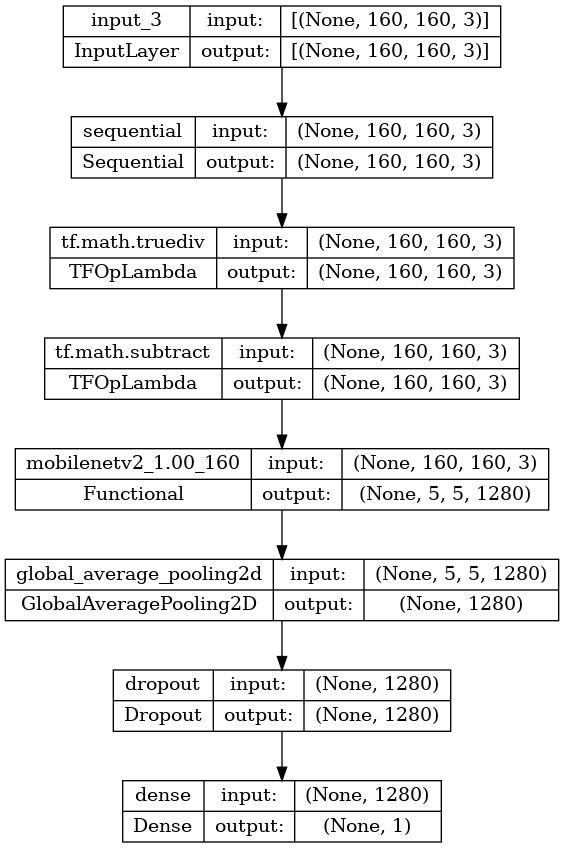
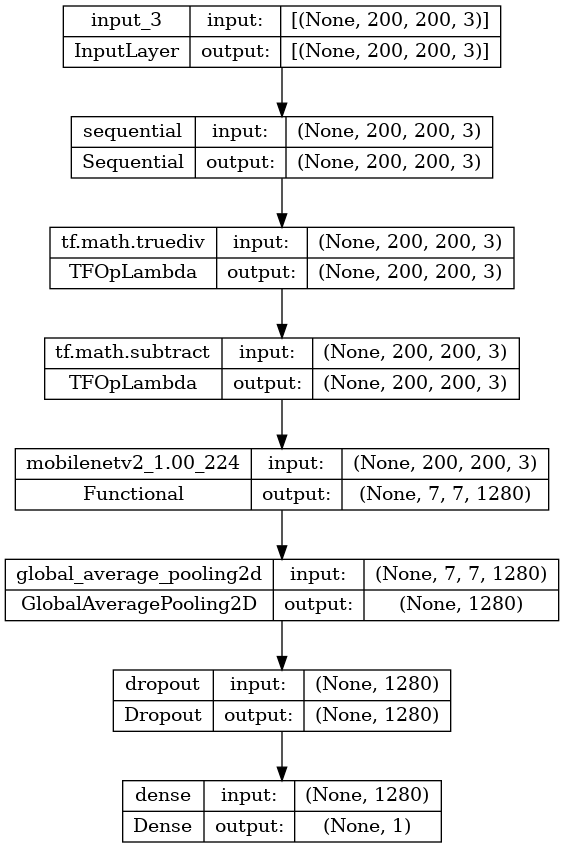
Changed to our dataset

diff --git a/tutorial/classification.py b/tutorial/classification.py
@@ -8,12 +8,13 @@ import tensorflow as tf
 _URL = 'https://storage.googleapis.com/mledu-datasets/cats_and_dogs_filtered.zip'
 path_to_zip = tf.keras.utils.get_file('cats_and_dogs.zip', origin=_URL, extract=True)
 PATH = os.path.join(os.path.dirname(path_to_zip), 'cats_and_dogs_filtered')
-
+PATH = '/home/xaver/Documents/repos/fh/Train_Test_Folder/'
 train_dir = os.path.join(PATH, 'train')
-validation_dir = os.path.join(PATH, 'validation')
+validation_dir = os.path.join(PATH, 'test')  # validation
 
 BATCH_SIZE = 32
-IMG_SIZE = (160, 160)
+Q_SIZE = 200
+IMG_SIZE = (Q_SIZE, Q_SIZE)
 
 train_dataset = tf.keras.utils.image_dataset_from_directory(train_dir,
                                                             shuffle=True,
@@ -94,7 +95,7 @@ prediction_layer = tf.keras.layers.Dense(1)
 prediction_batch = prediction_layer(feature_batch_average)
 print(prediction_batch.shape)
 ##
-inputs = tf.keras.Input(shape=(160, 160, 3))
+inputs = tf.keras.Input(shape=(Q_SIZE, Q_SIZE, 3))
 x = data_augmentation(inputs)
 x = preprocess_input(x)
 x = base_model(x, training=False)
